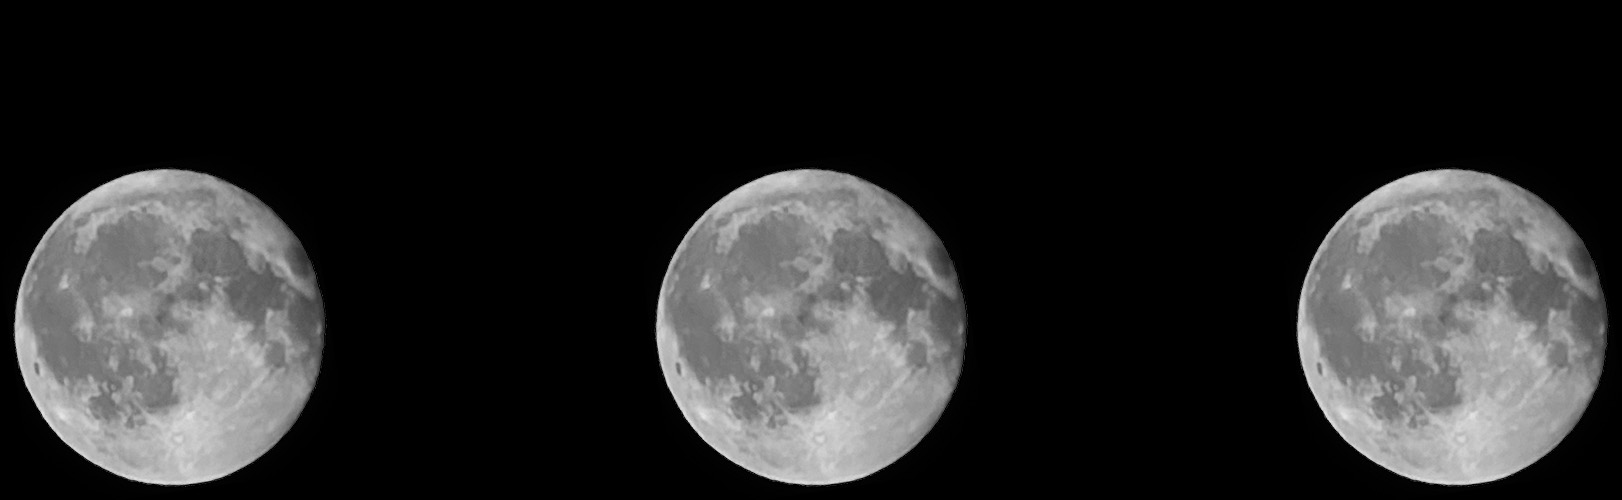
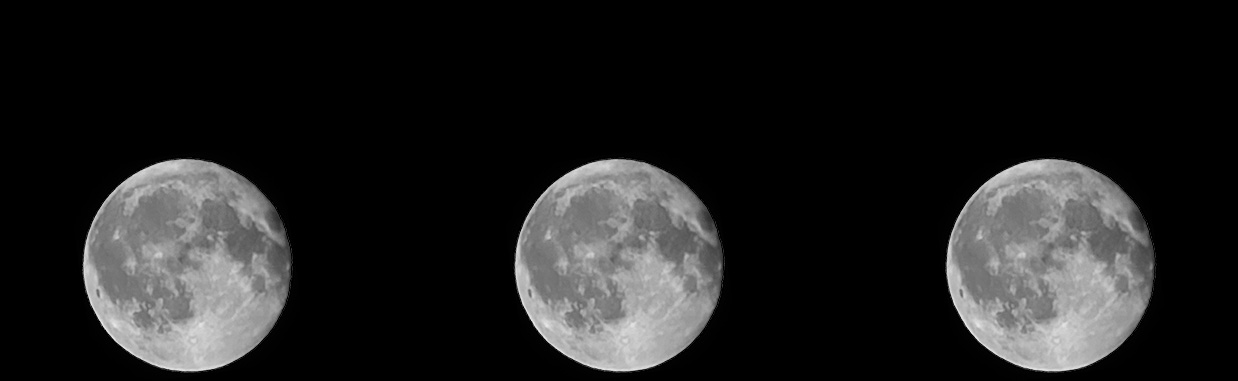
update

diff --git a/index.html b/index.html
@@ -47,7 +47,7 @@
         object-fit: contain;
         border-radius: 18px;
         margin-top: -4rem;
-        margin-bottom: 4rem;
+        margin-bottom: 0rem;
       }
 
       .spotify-player {
